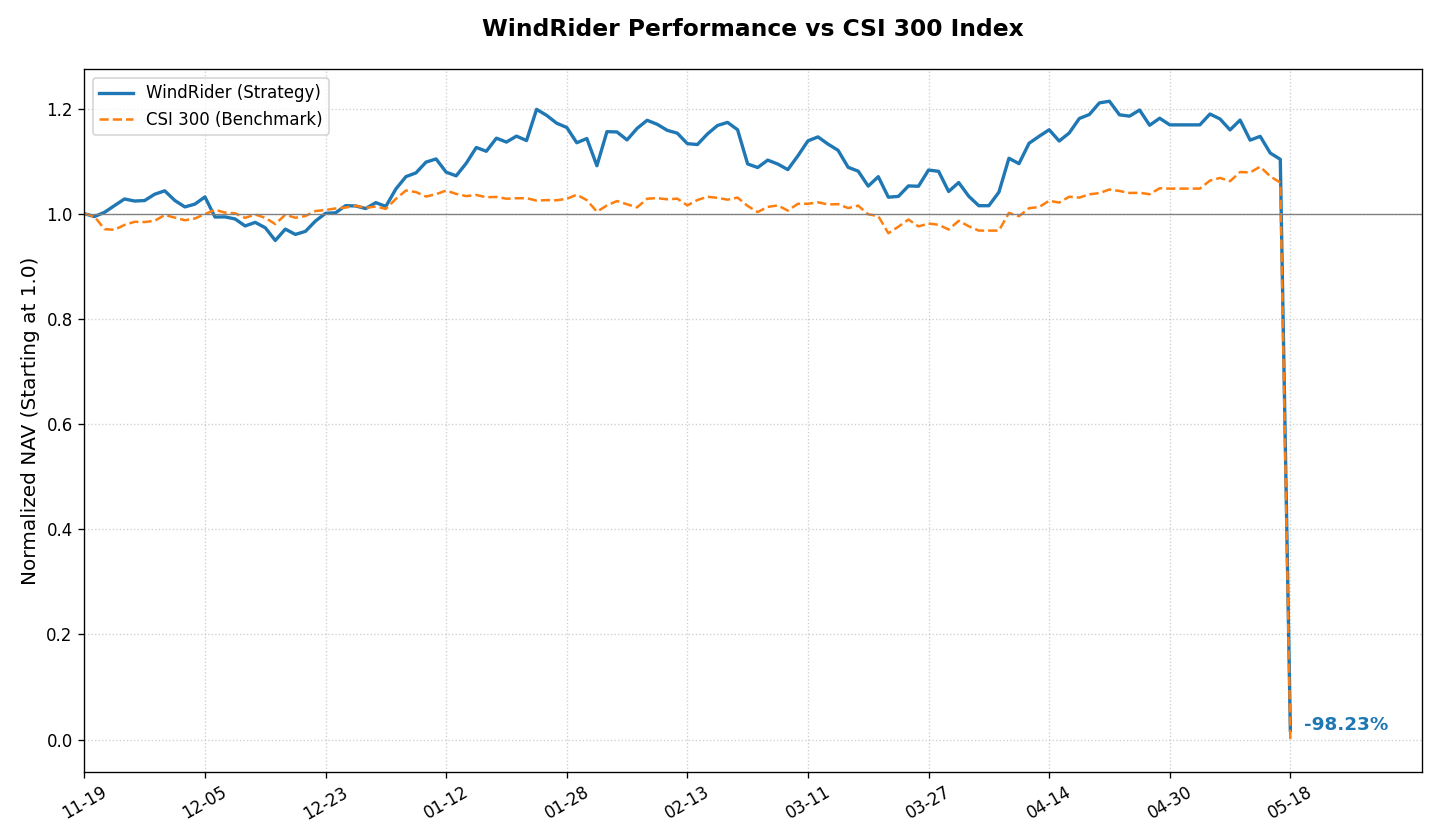
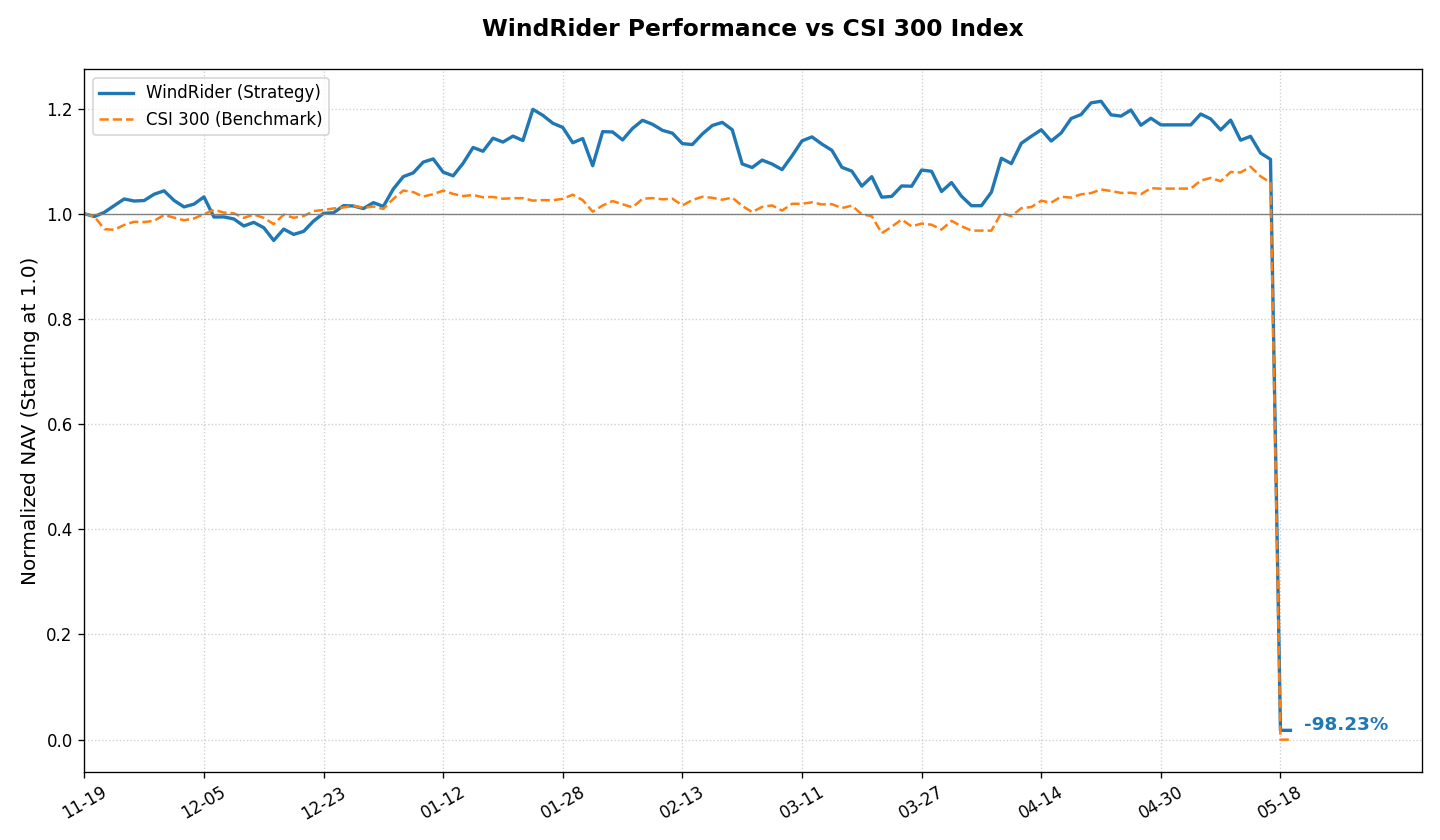
Updated Hugo site content

diff --git a/content/investment/windrider-1.md b/content/investment/windrider-1.md
@@ -1,8 +1,8 @@
 +++
 title = "风舵1号 (WindRider I)  /// 指数"
 summary = "商品期货分形摆动策略，实盘最新净值与核心风险指标。"
-date = 2026-05-19T21:30:32+08:00
-lastmod = 2026-05-19T21:30:32+08:00
+date = 2026-05-19T21:34:02+08:00
+lastmod = 2026-05-19T21:34:02+08:00
 draft = false
 description = "商品期货分形摆动策略实盘"
 +++